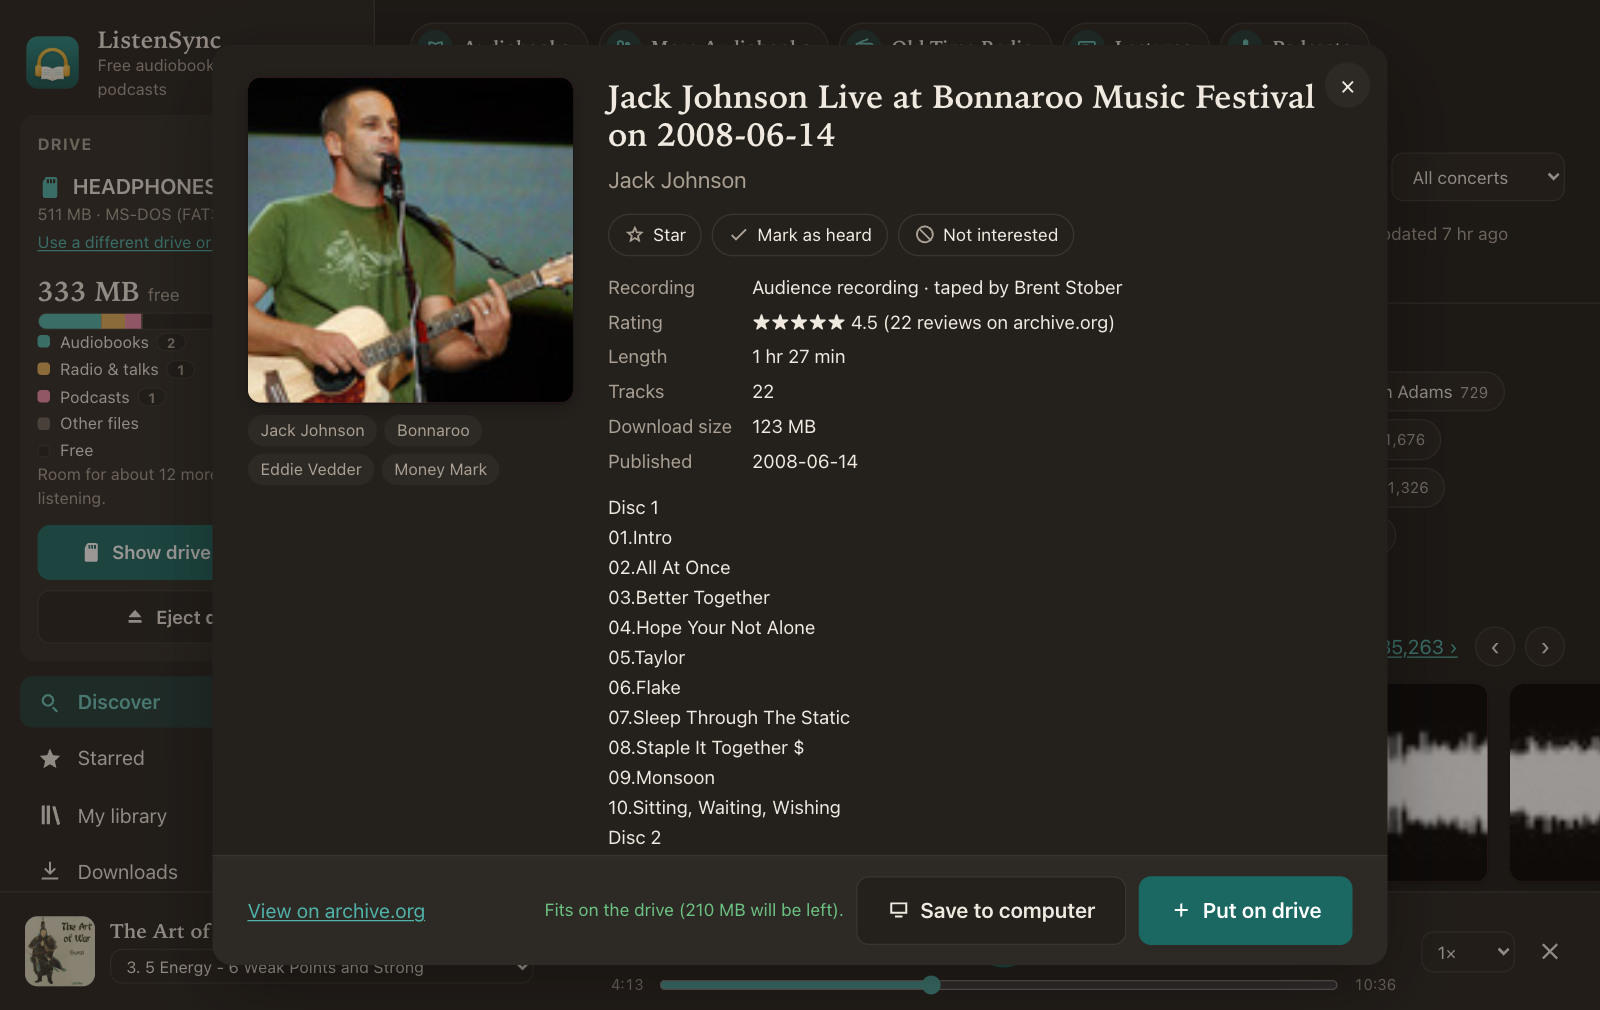
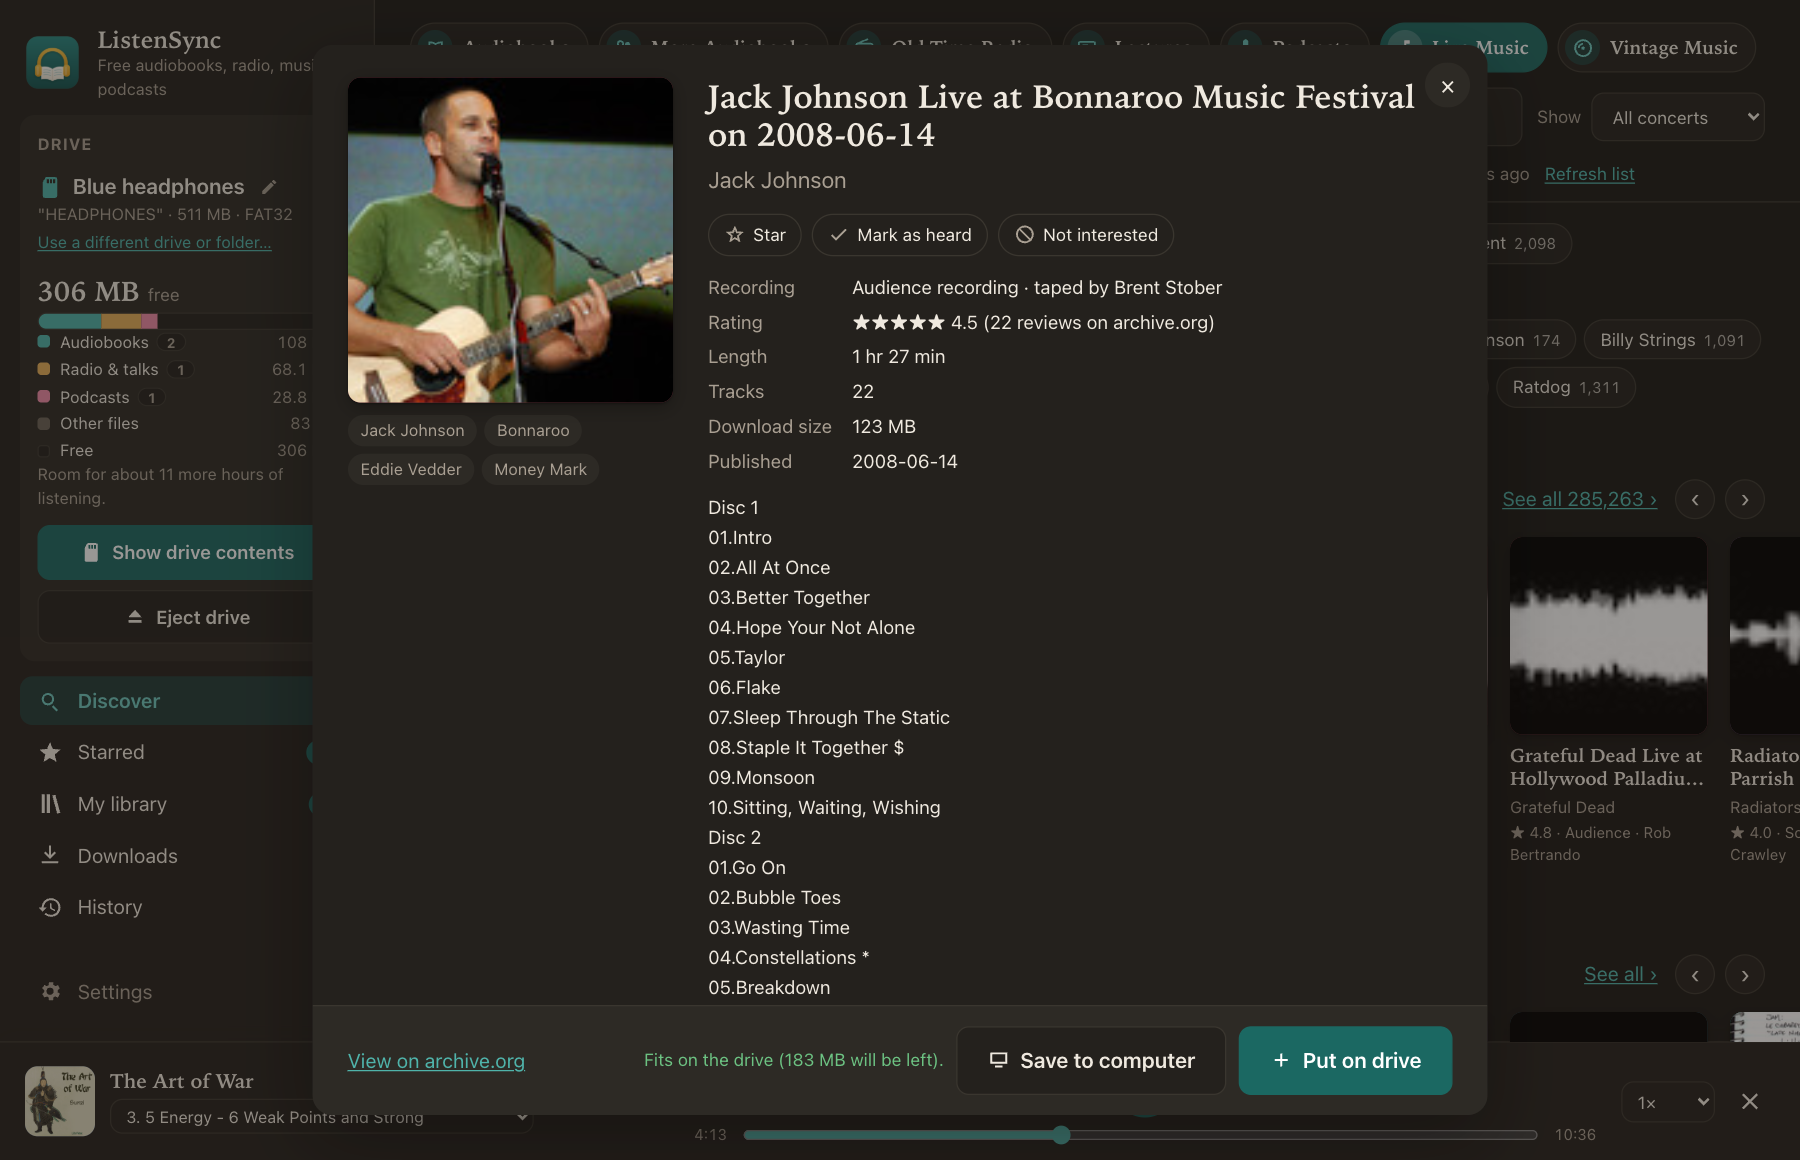
Retake screenshots at the new window size
1800x1160 (the 1440x928 page at 1.25x). Drives are named and a second drive
shows "Previously copied" in Discover. New History shot, and the Starred
shot is now on the README and app page. Dragnet replaces The Lone Ranger,
whose description is fully visible at this size and uses dated wording.

diff --git a/docs/index.html b/docs/index.html
@@ -158,6 +158,8 @@
         <figure><a class="zoom" href="screenshots/episodes.png"><img src="screenshots/episodes.png" alt="Choosing episodes" loading="lazy" /></a><figcaption>Pick the next batch of episodes that fits</figcaption></figure>
         <figure><a class="zoom" href="screenshots/library.png"><img src="screenshots/library.png" alt="My library and player" loading="lazy" /></a><figcaption>Pick up where you left off</figcaption></figure>
         <figure><a class="zoom" href="screenshots/downloads.png"><img src="screenshots/downloads.png" alt="Downloads" loading="lazy" /></a><figcaption>Downloads with progress and time left</figcaption></figure>
+        <figure><a class="zoom" href="screenshots/history.png"><img src="screenshots/history.png" alt="History of what was copied to each drive" loading="lazy" /></a><figcaption>Name your drives and see what went on each one</figcaption></figure>
+        <figure><a class="zoom" href="screenshots/starred.png"><img src="screenshots/starred.png" alt="Starred titles" loading="lazy" /></a><figcaption>Star titles to put on a drive later</figcaption></figure>
       </div>
     </section>
 

diff --git a/README.md b/README.md
@@ -26,6 +26,10 @@ MP3 player (for example headphones with a card slot), with everything in the rig
     <td><img src="docs/screenshots/library.png" alt="My library with the built-in player"><br><sub>Listen on the computer and pick up where you left off</sub></td>
     <td><img src="docs/screenshots/downloads.png" alt="Downloads with progress and time left"><br><sub>Downloads with progress and time left</sub></td>
   </tr>
+  <tr>
+    <td><img src="docs/screenshots/history.png" alt="History of what was copied to each named drive"><br><sub>Name your drives and see what went on each one, and when</sub></td>
+    <td><img src="docs/screenshots/starred.png" alt="Starred titles"><br><sub>Star titles to put on a drive later</sub></td>
+  </tr>
 </table>
 
 ## What it does
